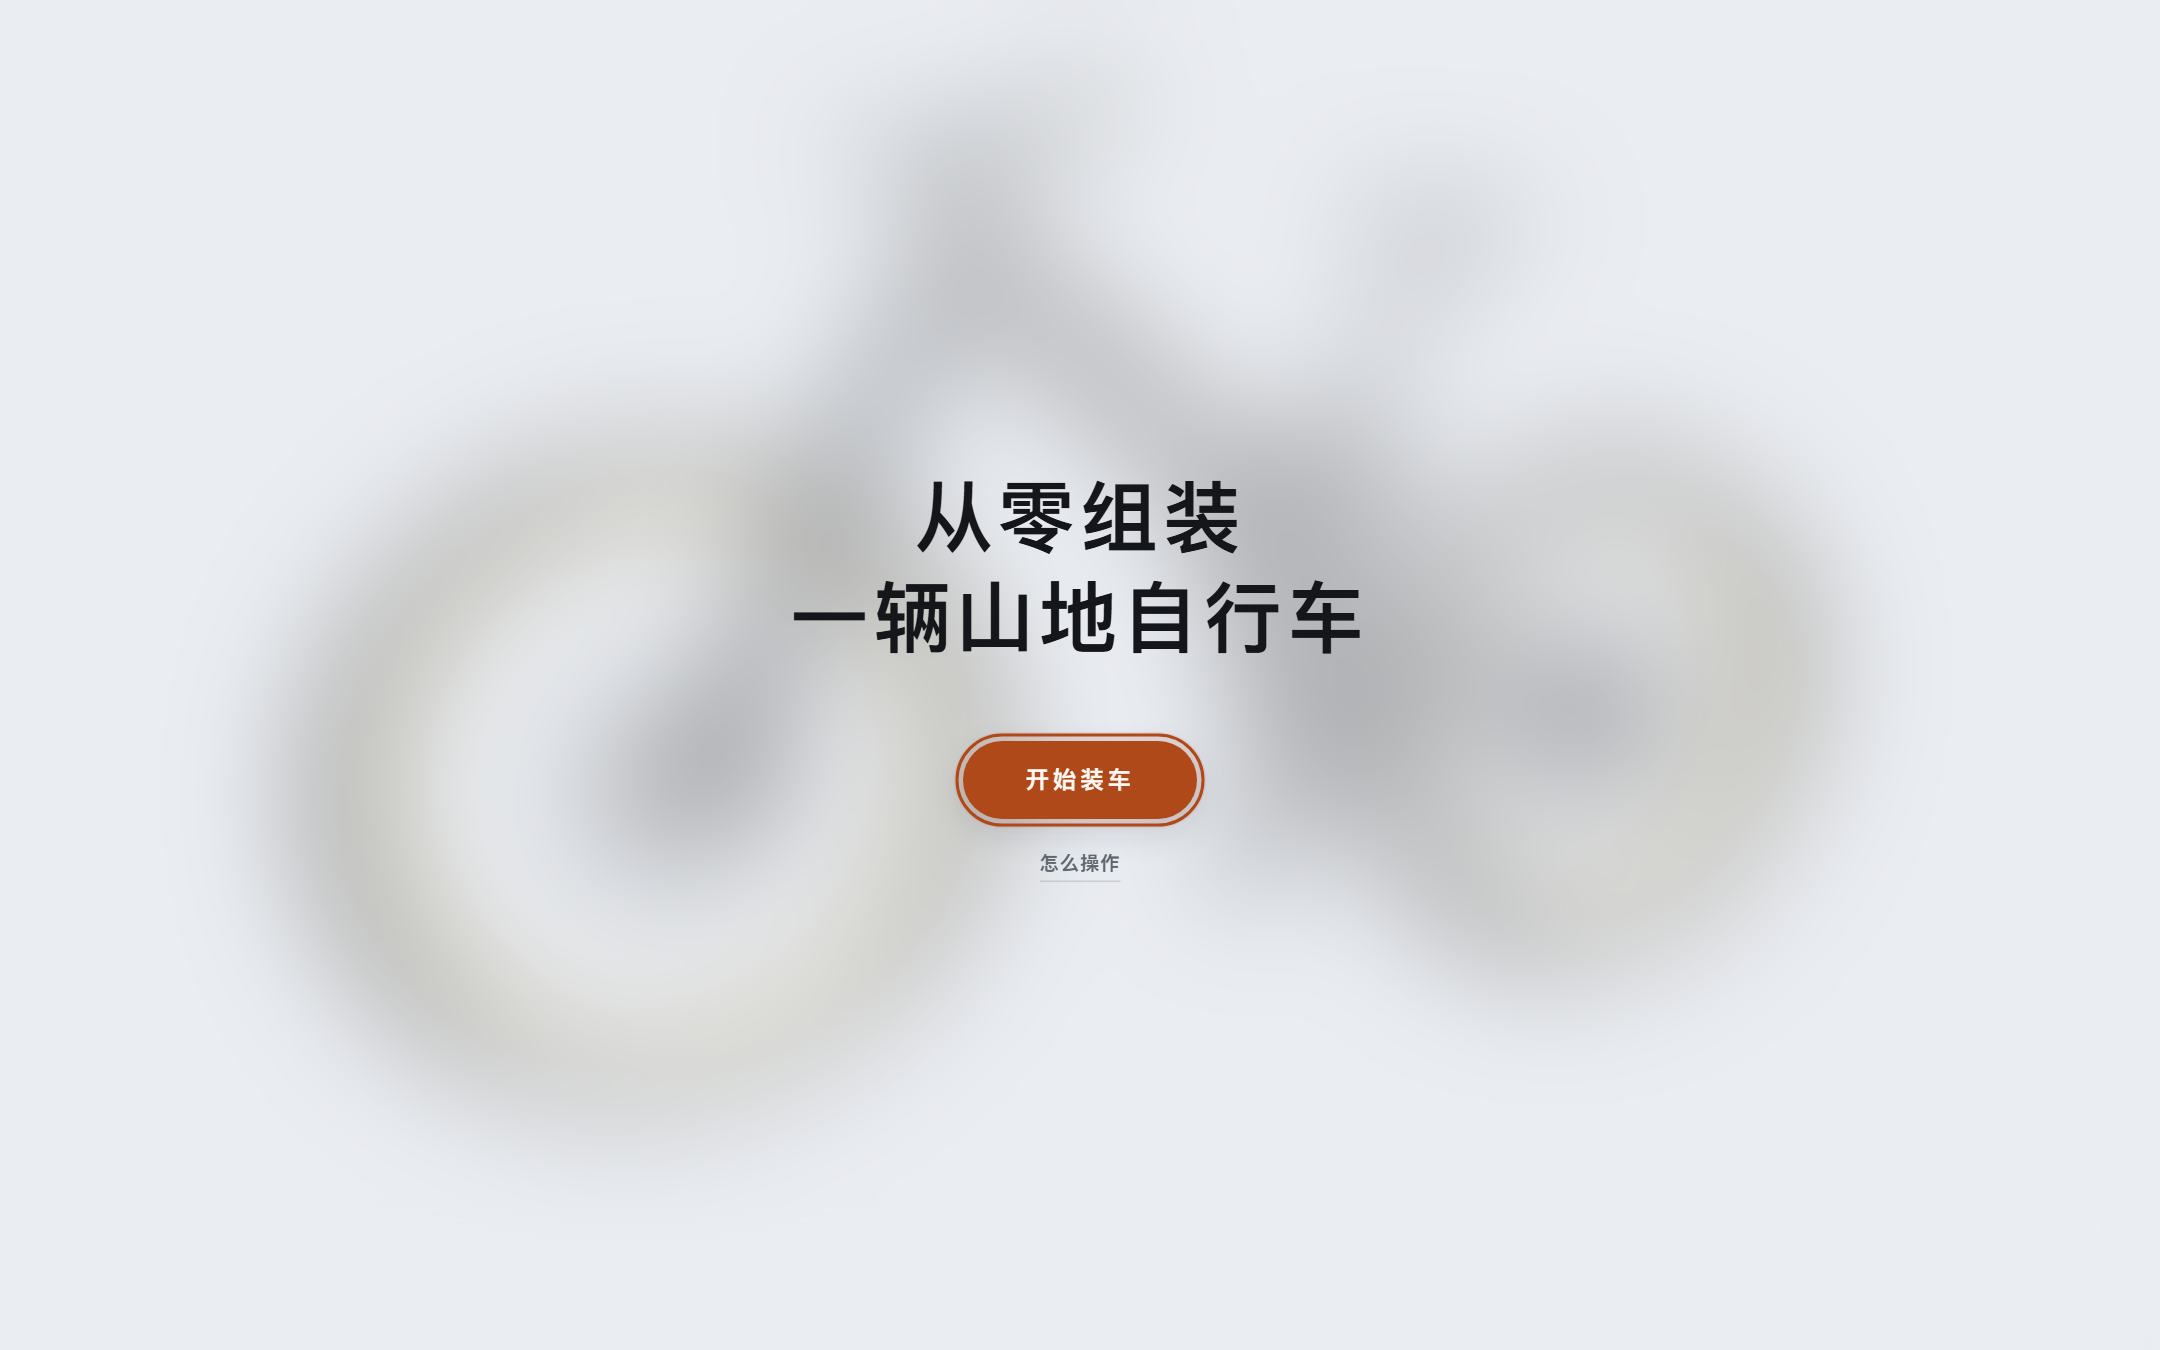
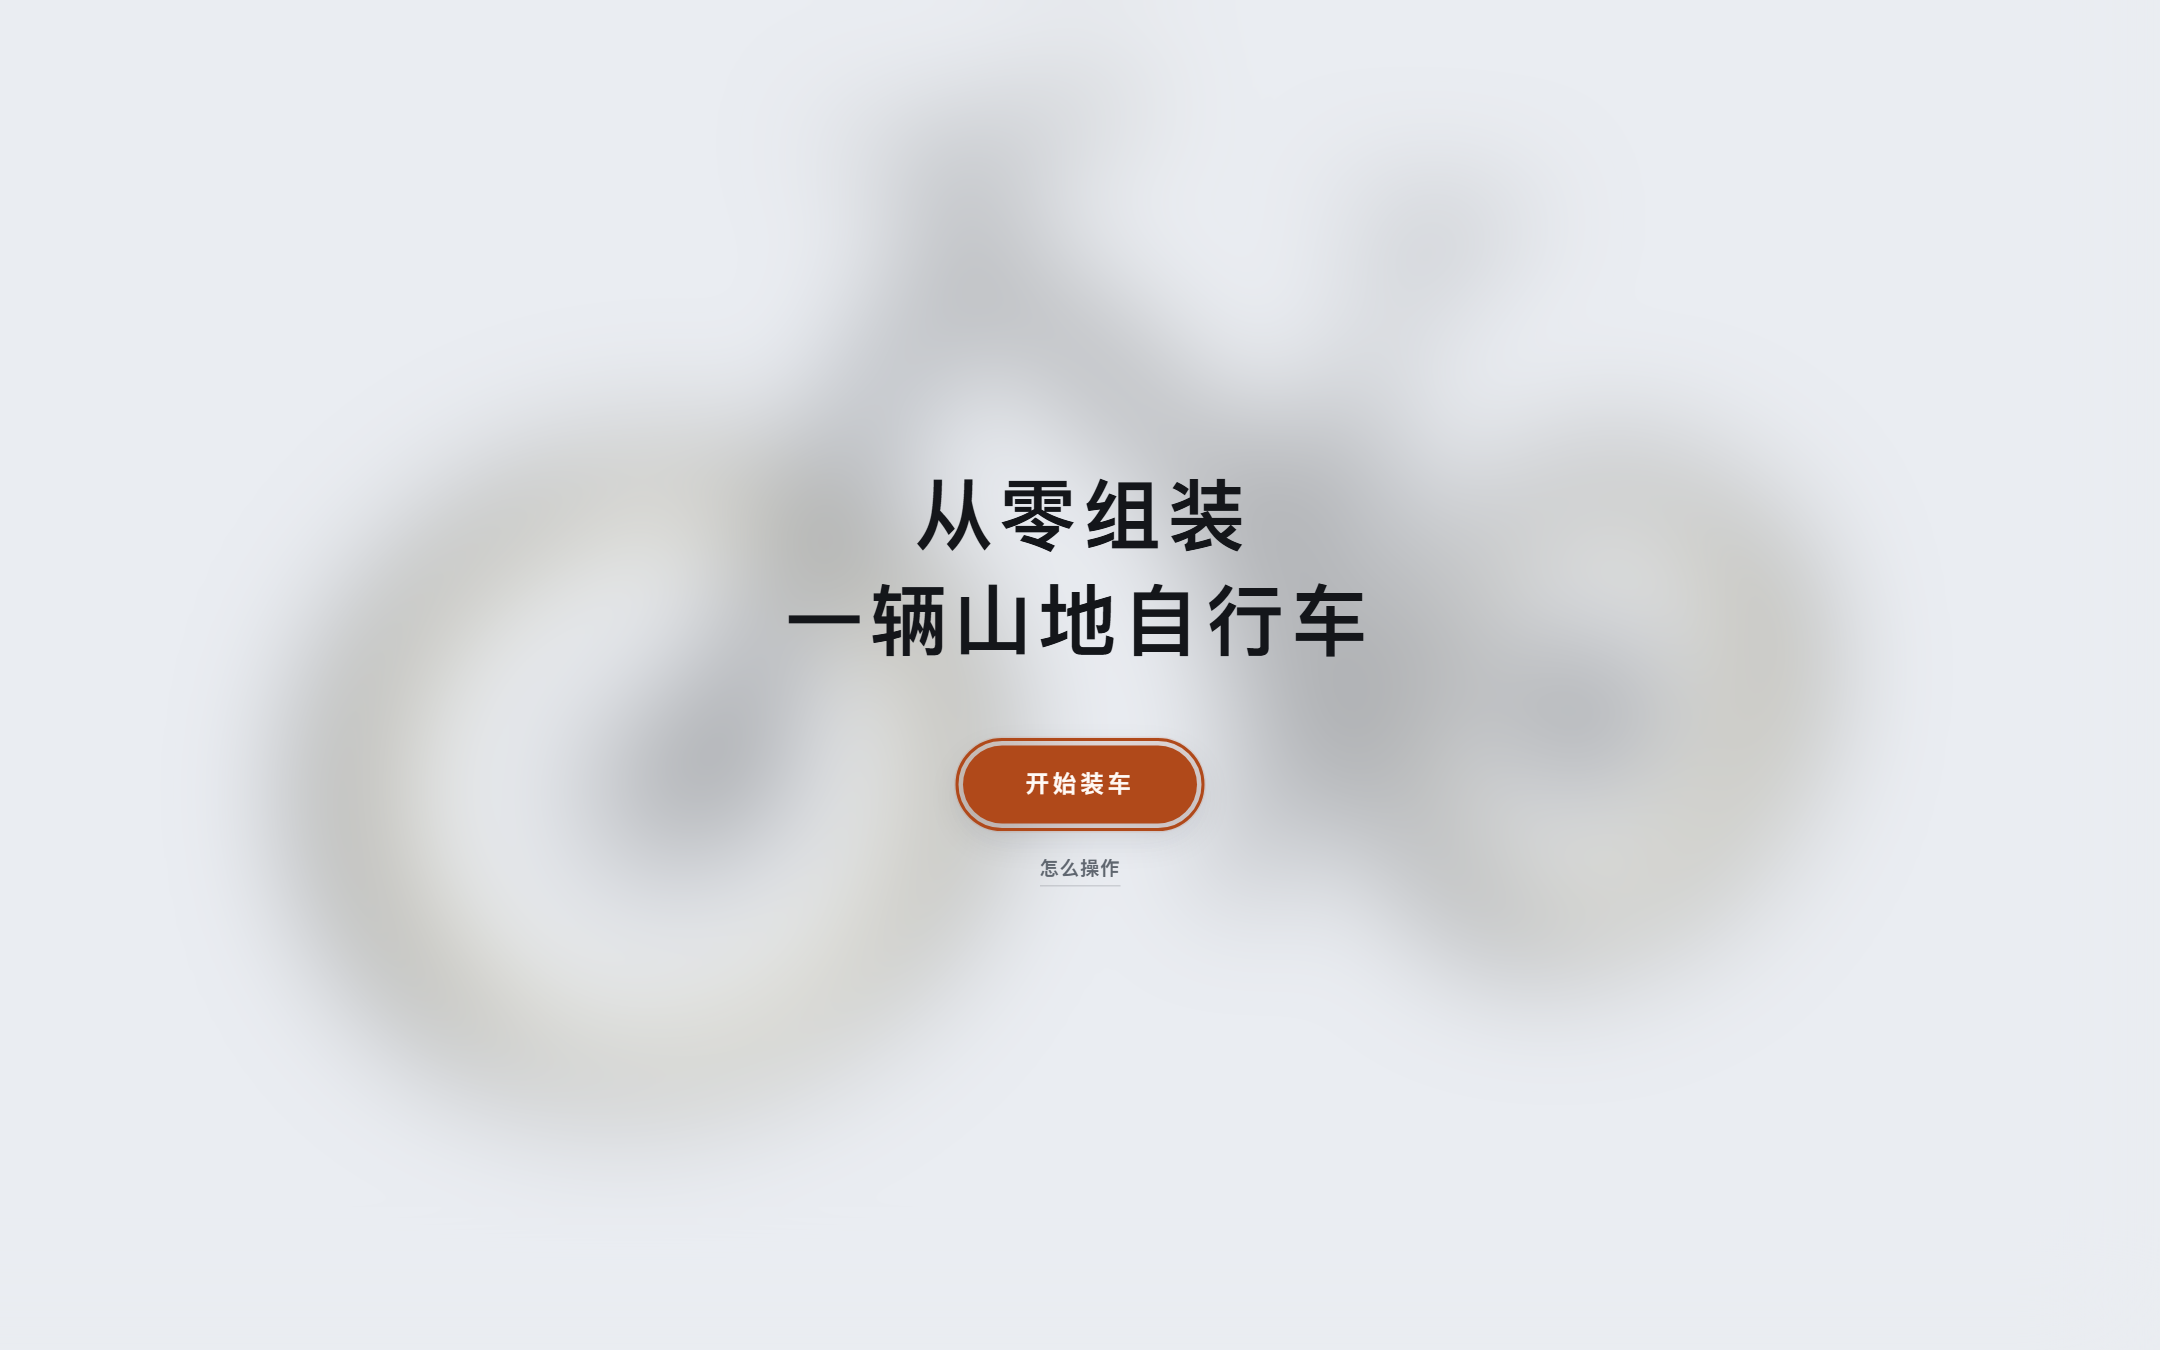
主体归位、刹把先于把套、封面标题换字
一、关键零件回到舞台中央

量了一遍每一步「这一刻要看的那件东西」落在画面哪儿（`.analysis/rvw-center.mjs`，
偏心以可用画面半宽/半高为 1）。二十六步里有六步偏出 0.38 以上，最坏的
后避震偏到 1.04 —— 也就是压在画幅上沿。

根因不是取景对错，是**行程比件还长**：取景按整段行程量，于是「半个画幅」
差不多等于「半段行程」，件停在行程的哪一头都贴着画幅边。

两处改动：
- 取景锚点由整段行程的中点改为偏向预备位（进场那一刻件停在那儿），
  并且锚点定死之后不再往车身那边偏 —— 填空是锦上添花，主体在中间是硬要求，
  两者冲突时前者让路；
- 后避震 0.16 → 0.09、下护板 0.12 → 0.07、把立 0.12 → 0.07、
  座管 0.22 → 0.11：这四件的预备位本来就退得过远，收一半之后行程仍看得清。

实测（1440×900）：最坏一步 1.04 → 0.58，超出 0.38 的由六步降到五步。
另有十步顺带改善：座管 0.77 → 0.38、把立 0.77 → 0.44、下护板 0.71 → 0.40、
车把 0.43 → 0.34、后拨 0.38 → 0.29、左右脚踏 0.27/0.25 → 0.14/0.12。

二、刹把先于把套

从把端往里套：刹把的抱箍在把套内侧，所以**先上刹把，再上把套**。
原来的顺序装不上去。清单里给 `grip-left/right` 补上 `needs: lever-*`，
拓扑排序据此作证；步骤表两步对调。

同时复查了全流程的先后：头碗→前叉→把立→车把→面盖、牙盘→曲柄→脚踏、
转点轴→摇臂→避震、卡钳→油管、链条在牙盘/后拨/后轮之后 —— 其余都成立。

三、封面标题换字

标题单独一套字体栈（`--display`）：苹方、鸿蒙黑体、MiSans、思源黑体在前，
微软雅黑兜底 —— 各平台上先挑最好看的那一款。字距放到 0.08em 并用
`text-indent` 抵掉行末多出来的那一格（否则「居中」是偏的），行高放松到 1.34。
**不引外部字体**：产物的 CSP 是 `default-src 'self'`，加载不了。

怎么验的

npm run check 全绿：lint + 44 单测 + 11 条清单对账 + 构建 + 108 条冒烟。
清单对账里的拓扑排序替新的先后关系作证。README 截图重拍。

Changed region(s): [[0.3722, 0.4356, 0.6514, 0.4978], [0.4343, 0.5289, 0.5583, 0.6533], [0.4343, 0.3422, 0.5894, 0.4044]]

diff --git a/src/steps/util.js b/src/steps/util.js
@@ -63,10 +63,15 @@ export function partCenter(ctx, partId) {
  *   主体一大，撑开画幅的那几个角并不在最靠近相机的那一层上，全额补会白白退远一米。
  *   toward：画面要往哪一边偏一点，见下。span：整车半径，偏多少按主体与它的比例缩放。
  */
-function aimAt(boxes, { az, el, pad = 1, depth = 1, toward = null, span = 0 }) {
+function aimAt(boxes, { az, el, pad = 1, depth = 1, toward = null, span = 0, at = null }) {
   const all = new Box3();
   for (const b of boxes) if (!b.isEmpty()) all.union(b);
-  const c = all.getCenter(new Vector3());
+  /*
+   * 默认对准整段包络的中点；给了 at 就对准 at，而半跨度仍按新中心重量 ——
+   * 于是「主体落在画面正中」与「整段行程都在画面里」两件事同时成立，
+   * 代价只是镜头退远一点。
+   */
+  const c = at ? at.clone() : all.getCenter(new Vector3());
 
   const ar = (az * Math.PI) / 180;
   const er = (el * Math.PI) / 180;
@@ -204,16 +209,50 @@ function nodeBoxes(ctx, name) {
  */
 export function frameOf(ctx, parts, { pad = PAD, extra = [], az = 45, el = 16 } = {}) {
   const boxes = [];
+  const ends = [new Box3(), new Box3()];
   for (const id of parts) {
     for (const u of [0, 1]) {
       ctx.slide.park(id, u);
-      for (const n of ctx.bom.nodesOf(id)) boxes.push(...nodeBoxes(ctx, n));
+      for (const n of ctx.bom.nodesOf(id)) {
+        const bs = nodeBoxes(ctx, n);
+        boxes.push(...bs);
+        for (const b of bs) ends[u].union(b);
+      }
     }
     ctx.slide.park(id, 1);
   }
   for (const p of extra) boxes.push(new Box3().setFromPoints([p]));
   const bike = bikeRef(ctx);
-  const { target, fit } = aimAt(boxes, { az, el, pad, toward: bike.center, span: bike.radius });
+
+  /*
+   * **中心偏向预备位，不是整段行程的中点。**
+   *
+   * 这一步的取景本来就是按整段行程量的，而件本身常常比行程还小 ——
+   * 于是「半个画幅」差不多就等于「半段行程」，件停在行程的哪一头都贴着画幅边。
+   * 实测对准中点时，向下装的那几件（后避震、把立、座管）偏出可用画面半高
+   * 0.75–1.04，也就是压在画幅上沿上：「这一步要看的东西在舞台中央」完全不成立。
+   *
+   * 而**进场那一刻件停在预备位**，那才是用户第一眼看的地方。所以锚点从预备位
+   * 出发、只往装配位挪四分之一：进场时件落在中心附近（实测偏心降到 0.2 上下），
+   * 装到位之后它落在画幅另一侧靠边处 —— 那时这一步已经讲完了。
+   *
+   * 半跨度是按新锚点重量的，所以整段行程仍然全在画面里，只是镜头退远一点。
+   */
+  const ANCHOR_TO_SEAT = 0.10;
+  const anchor = ends[0].isEmpty() || ends[1].isEmpty() ? null
+    : ends[0].getCenter(new Vector3()).lerp(ends[1].getCenter(new Vector3()), ANCHOR_TO_SEAT);
+
+  /*
+   * 锚点定死之后**不再往车身那边偏**。
+   *
+   * 那一档偏置是为了填掉近景里空着的半边（见 aimAt 的 toward），可它与
+   * 「主体落在舞台中央」是直接冲突的两件事：实测它把后避震、把立、座管
+   * 又拽回中线的另一侧去，一步的主体偏出可用画面半高七成以上。
+   * 主体在中间是硬要求，填空是锦上添花 —— 冲突时前者赢。
+   */
+  const { target, fit } = aimAt(boxes, {
+    az, el, pad, at: anchor, toward: anchor ? null : bike.center, span: bike.radius,
+  });
   return { target, fit };
 }
 

diff --git a/src/ui/styles/tokens.css b/src/ui/styles/tokens.css
@@ -152,6 +152,17 @@
 :root {
   /* ── 字 ───────────────────────────────────────── */
   --sans: "PingFang SC", "HarmonyOS Sans SC", "Noto Sans SC", "Microsoft YaHei", system-ui, sans-serif;
+  /*
+   * 封面标题单独一套。正文那一栈以「哪儿都有」为先，而标题只出现一次，
+   * 值得把各平台上最好看的那几款排在前面：苹方（macOS / iOS）、
+   * 鸿蒙黑体与小米 MiSans（新一代国产屏显黑体，字面更方、重心更稳）、
+   * 思源黑体，最后才落到微软雅黑。
+   * **不引外部字体** —— 产物的 CSP 是 default-src 'self'，加载不了；
+   * 而为十二个字打包一份子集字体，维护成本不值。
+   */
+  --display: "PingFang SC", "HarmonyOS Sans SC", "MiSans", "Source Han Sans SC",
+    "Source Han Sans CN", "Noto Sans SC", "Microsoft YaHei UI", "Microsoft YaHei",
+    system-ui, sans-serif;
   /* 圈数、步骤号 —— 一切会跳动的数字都走等宽，跳的时候不推着旁边的字走 */
   --mono: "SFMono-Regular", "JetBrains Mono", "Cascadia Mono", Consolas, monospace;
 

diff --git a/src/styles.css b/src/styles.css
@@ -62,11 +62,18 @@
  */
 .cover-t {
   margin: 0;
+  font-family: var(--display);
   font-size: clamp(30px, 5.2vw, 52px);
   font-weight: 500;
-  letter-spacing: 0.06em;
-  line-height: 1.28;
+  /* 中文标题的字距要比正文松一档，但不能松到断开词组；0.08em 是这一档的上限 */
+  letter-spacing: 0.08em;
+  /* 字距是加在每个字右侧的，行末会多出一格 —— 抵掉，标题才是真的居中 */
+  text-indent: 0.08em;
+  line-height: 1.34;
   color: var(--text);
+  /* 大字号下开启视觉字重优化与更细的抗锯齿，边缘不发糊 */
+  -webkit-font-smoothing: antialiased;
+  text-rendering: optimizeLegibility;
 }
 
 .cover-bar {

diff --git a/src/steps/acts.js b/src/steps/acts.js
@@ -276,17 +276,17 @@ export function acts(ctx) {
     P({
       id: 'D3',
       phase: 3,
-      title: '两只把套',
-      parts: ['grip-left', 'grip-right'],
-      cue: '把套从两端推到底',
+      title: '两只刹把',
+      parts: ['lever-left', 'lever-right'],
+      cue: '刹把从两端滑到把套内侧',
       pad: 1.1,
     }),
     P({
       id: 'D4',
       phase: 3,
-      title: '两只刹把',
-      parts: ['lever-left', 'lever-right'],
-      cue: '刹把从两端滑到把套内侧',
+      title: '两只把套',
+      parts: ['grip-left', 'grip-right'],
+      cue: '把套从两端推到底',
       pad: 1.1,
     }),
 
